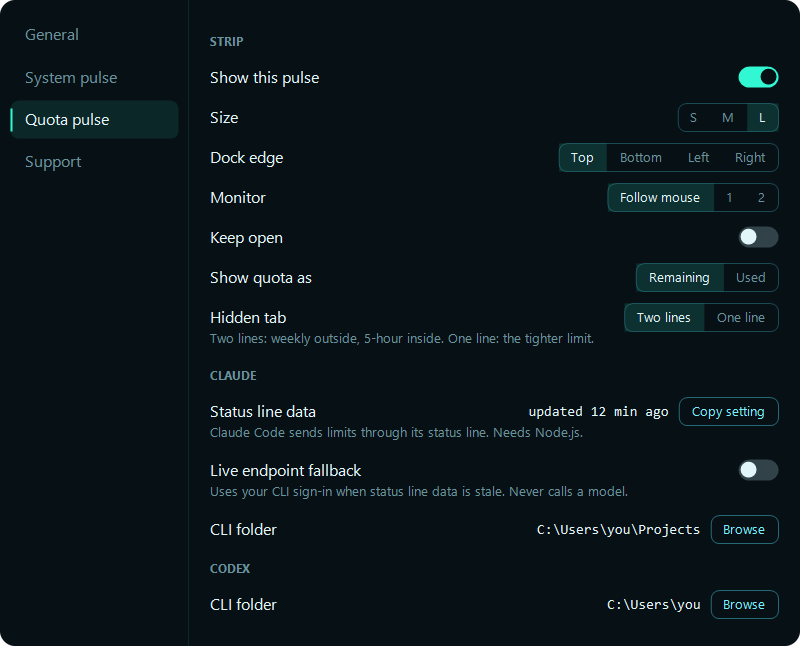
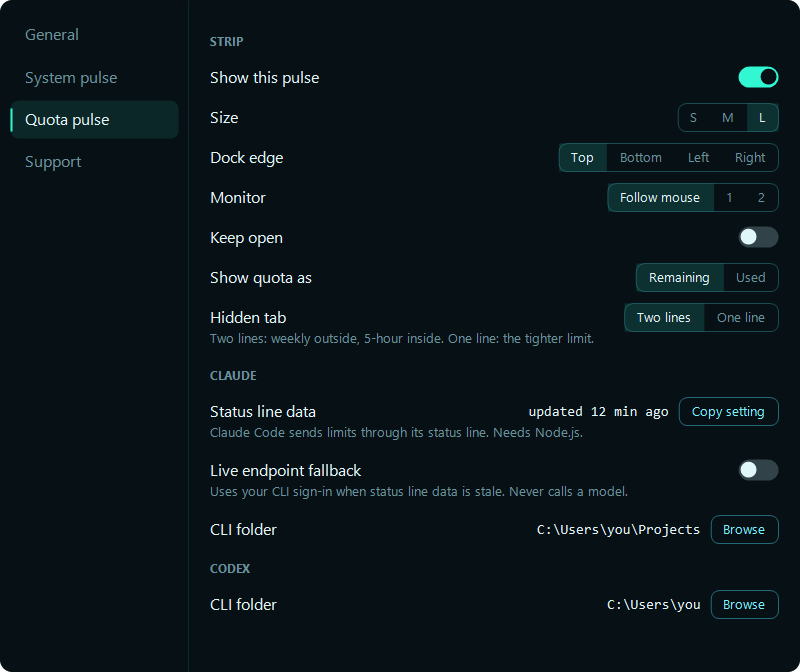
[Update : Docs] Regenerated screenshots with rounded corners, added the v0.4.1 devlog entry for selectable peek values, and set the version to 0.4.1

diff --git a/README.md b/README.md
@@ -47,6 +47,7 @@ More screenshots are in the [gallery](docs/gallery.md), and the [devlog](docs/de
 - **Multi-monitor:** put each strip on any monitor, dock it to any edge, and drag it along that edge. **Follow mouse** moves a hidden strip to whichever monitor the pointer is on. Text and layout scale correctly across monitors with different scaling.
 - **Readable anywhere:** the hidden tab pairs a dark body with a light ring, so it stays visible on white pages, bright video, and dark fullscreen video alike.
 - **Three layouts:** small, medium, and large for each strip.
+- **Your peek:** choose what System pulse shows on hover: load, temperatures, memory, any drive, and uptime.
 - **Settings window:** every option grouped by pulse, and either pulse can be turned off if you only want one.
 - **No paid API usage:** Quota pulse never calls a model and never uses API keys (see below).
 - **Optional local JSON bridge** for your own dashboards.
@@ -110,7 +111,7 @@ The bridge is disabled by default, binds only to `127.0.0.1`, and accepts no com
 
 ## Potential future features
 
-- Selectable metrics and warning thresholds.
+- Warning thresholds.
 - History graphs and lightweight data export.
 - Native embeddable HTML component rather than JSON only.
 - Start-with-Windows option and packaged installer.

diff --git a/docs/devlog.md b/docs/devlog.md
@@ -90,3 +90,11 @@ Two feature requests asked the same thing: say more before the strip is opened.
 ![Hidden tabs and the System pulse peek before (top) and after (bottom)](images/history-hidden-and-peek.png)
 
 Settings also got a Support page with the Ko-fi, source, issue, and release links.
+
+## October 7, 2026: your peek (v0.4.1)
+
+The System pulse peek from v0.4.0 showed a fixed set of values. **Settings → System pulse → Peek** now picks what it shows: CPU and GPU load and temperature, memory, any fixed drive, and uptime, marked with a small stopwatch as suggested in the feature request. A temperature joins its load value (`CPU 12% 54°`), and the peek grows to fit whatever is chosen. Temperatures are read only while one is shown.
+
+![Settings with the Peek section, and the peek it produces in both directions](images/history-peek-values.png)
+
+Two smaller fixes came from daily use. The two-line Quota tab left almost no dark space between its bars and the light ring, so it grew from 13 to 17 px thick. And rendered screenshots now keep the rounded corners the app has on screen, instead of square ones, so the images in this repo match what you see.

diff --git a/docs/gallery.md b/docs/gallery.md
@@ -36,7 +36,7 @@ Claude Code is listed first and Codex second. Values count down from 100% remain
 
 ## Peek
 
-Hovering over a tab shows the headline numbers without opening the panel. Quota pulse shows each provider's 5-hour value, plus the weekly value on an amber chip when the weekly quota is the lower of the two. System pulse shows CPU, GPU, and memory load and free space on the system drive, which turns amber when the drive is nearly full.
+Hovering over a tab shows the headline numbers without opening the panel. Quota pulse shows each provider's 5-hour value, plus the weekly value on an amber chip when the weekly quota is the lower of the two. System pulse shows CPU, GPU, and memory load and free space on the system drive by default; a drive turns amber when it is nearly full. **Settings → System pulse → Peek** picks the values, including temperatures, other drives, and uptime.
 
 ![Quota pulse peek](images/quota-peek.png) &nbsp; ![System pulse peek](images/system-peek.png)
 
